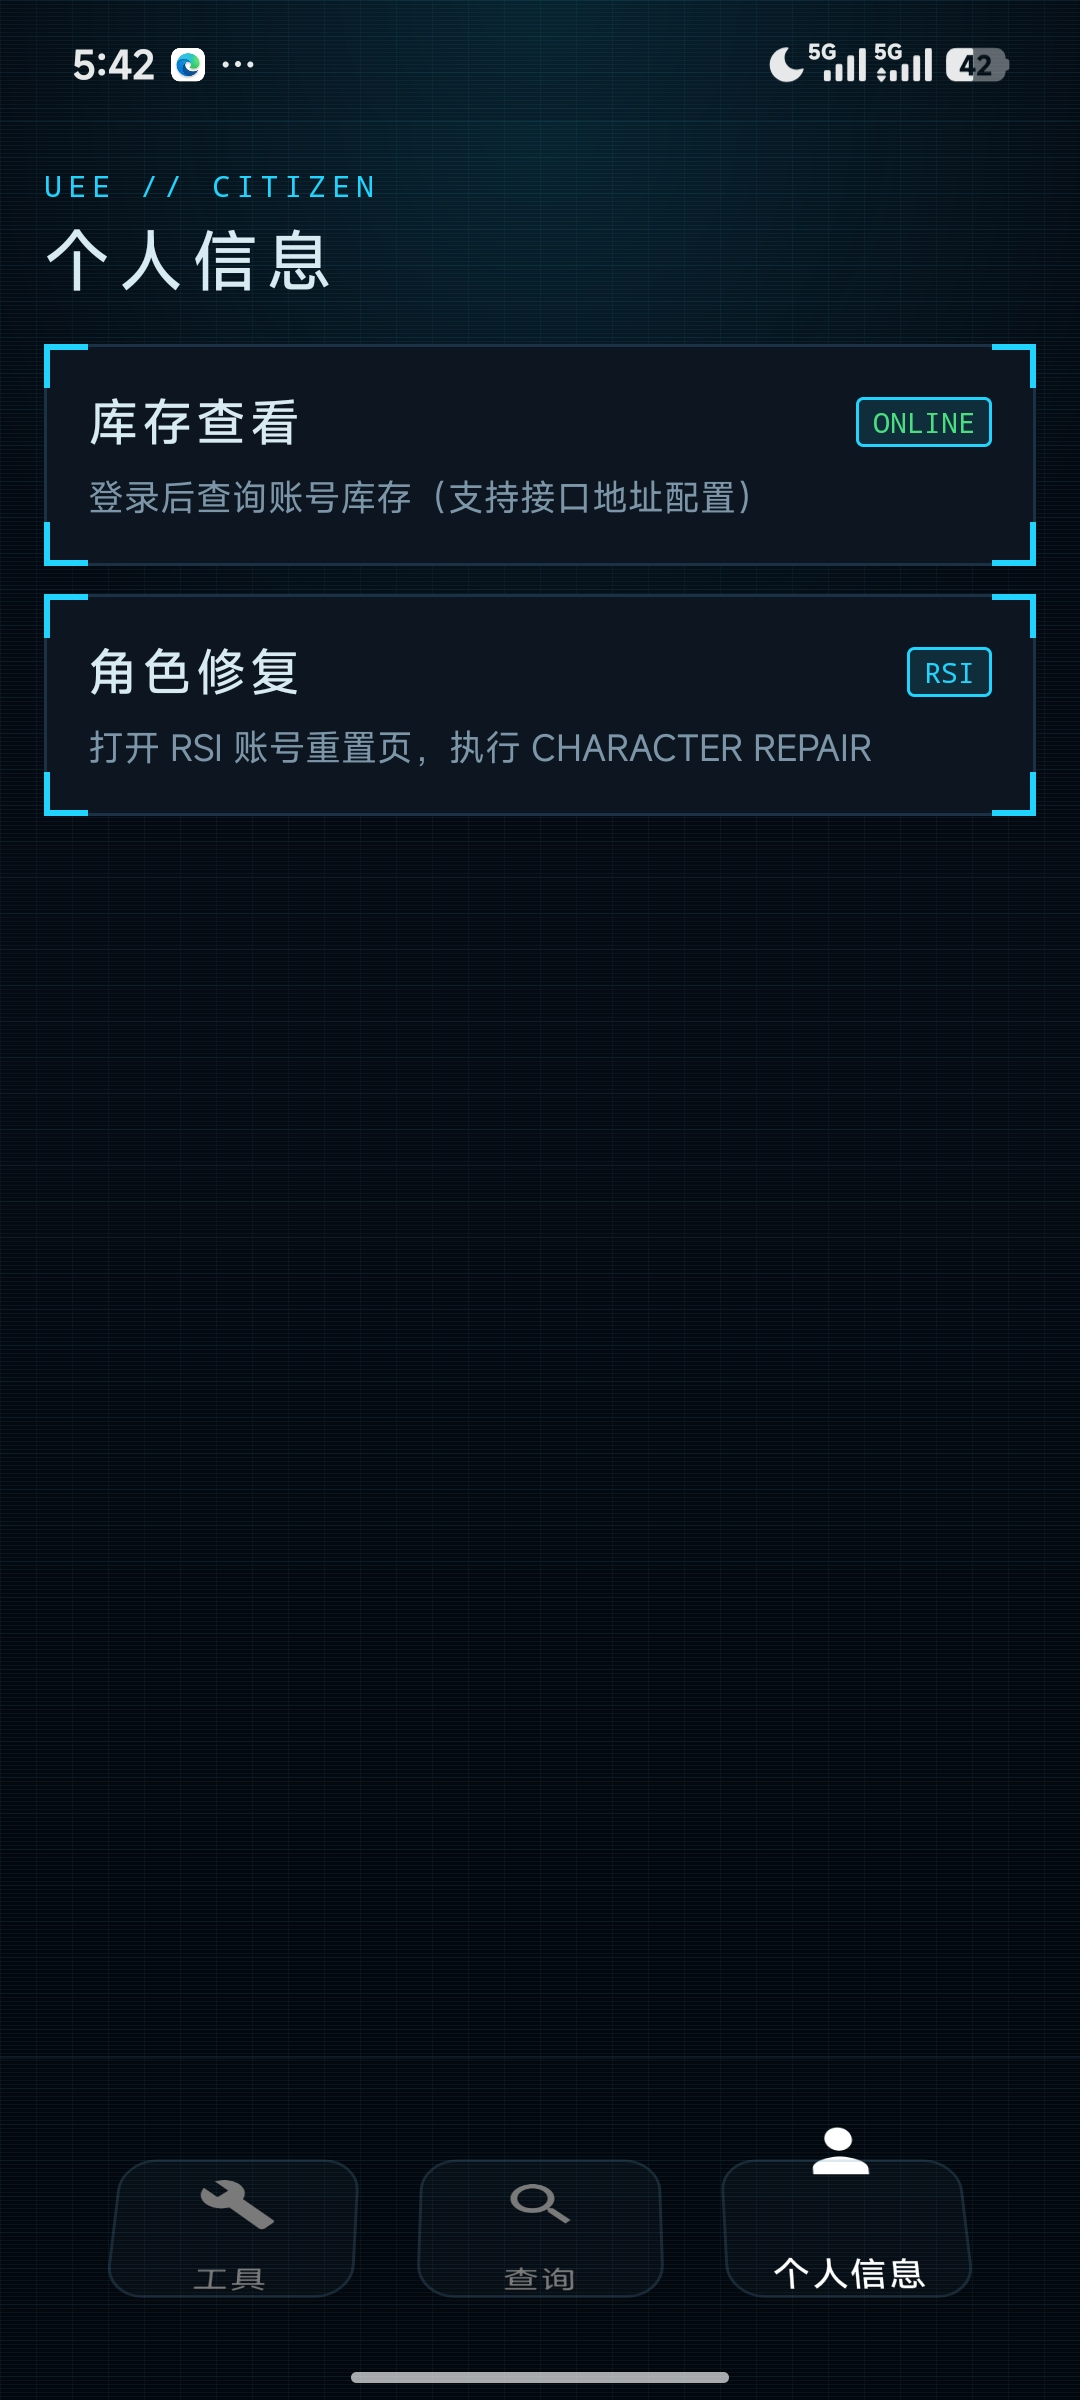
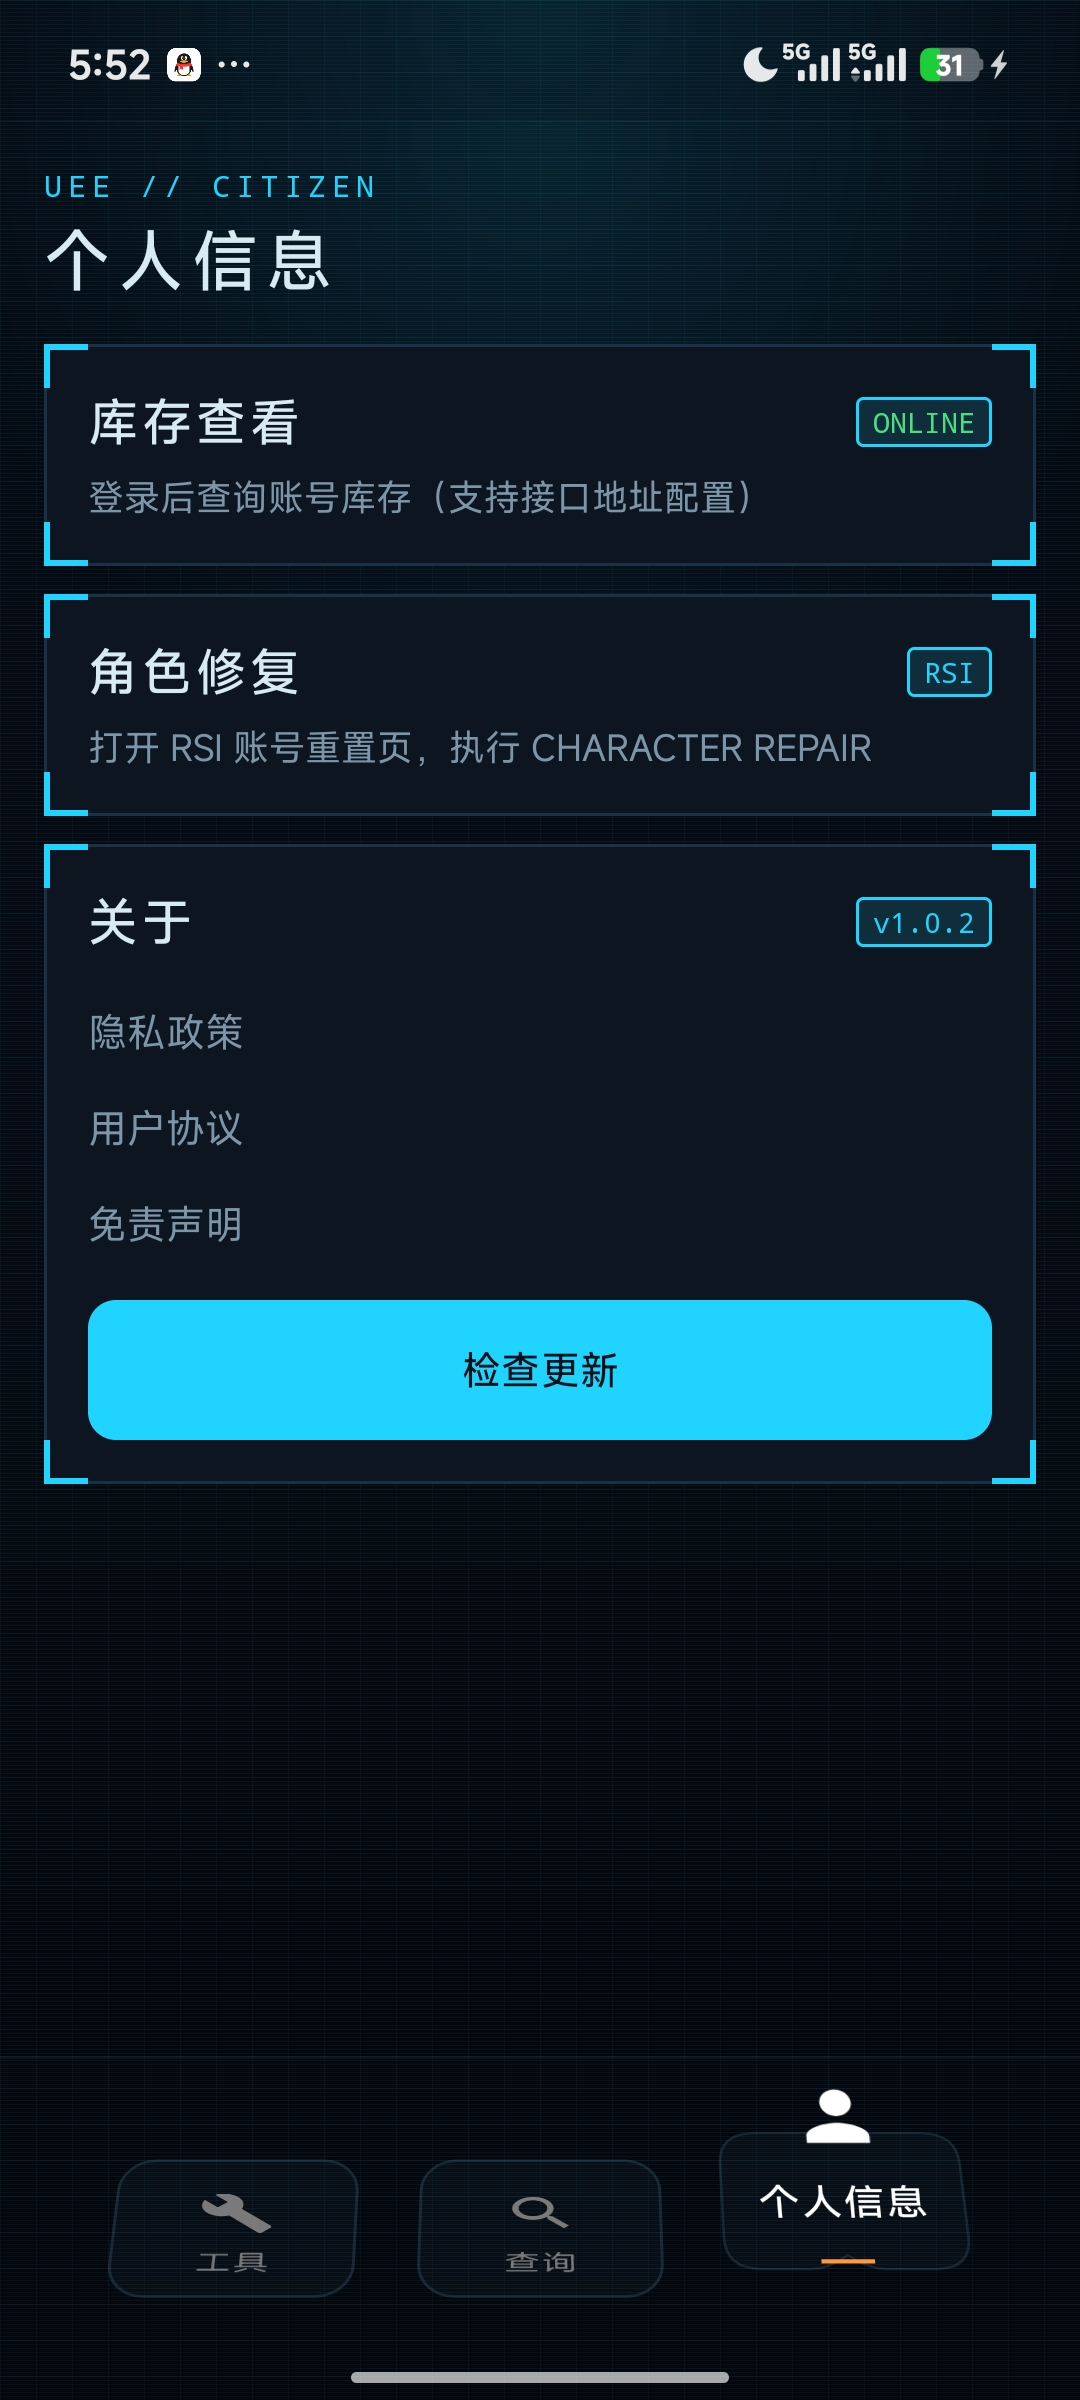
[feat] 更新源改Gitee优先并新增SCM网站工具栏入口

diff --git a/app/src/main/java/com/euedrc/bugsc/ToolsFragment.kt b/app/src/main/java/com/euedrc/bugsc/ToolsFragment.kt
@@ -1,5 +1,7 @@
 package com.euedrc.bugsc
 
+import android.content.Intent
+import android.net.Uri
 import android.os.Bundle
 import android.view.LayoutInflater
 import android.view.View
@@ -33,12 +35,21 @@ class ToolsFragment : Fragment() {
             findNavController().navigate(R.id.WbFragment)
         }
         binding.cardComing.setOnClickListener {
-            Toast.makeText(requireContext(), "陆续开发中", Toast.LENGTH_SHORT).show()
+            runCatching {
+                startActivity(Intent(Intent.ACTION_VIEW, Uri.parse(SCM_TOOLS_URL)))
+            }.onFailure {
+                Toast.makeText(requireContext(), "无法打开浏览器", Toast.LENGTH_SHORT).show()
+            }
         }
     }
 
     override fun onDestroyView() {
         super.onDestroyView()
         _binding = null
+    }
+
+    companion object {
+        /** SCM 网站工具栏（合作方维护） */
+        private const val SCM_TOOLS_URL = "https://flowcld.xyz/tools"
     }
 }

diff --git a/app/src/main/java/com/euedrc/bugsc/AppUpdateClient.kt b/app/src/main/java/com/euedrc/bugsc/AppUpdateClient.kt
@@ -47,10 +47,10 @@ class AppUpdateClient(
         private const val GITEE_LATEST_RELEASE_API_URL =
             "https://gitee.com/api/v5/repos/$GITEE_REPO/releases/latest"
 
-        // GitHub 为主源，国内访问 api.github.com 失败时回退 Gitee
+        // Gitee 为主源（国内访问与下载更快），失败时回退 GitHub
         val DEFAULT_SOURCES = listOf(
-            UpdateSource("GitHub", GITHUB_LATEST_RELEASE_API_URL, Companion::parseRelease),
             UpdateSource("Gitee", GITEE_LATEST_RELEASE_API_URL, Companion::parseGiteeRelease),
+            UpdateSource("GitHub", GITHUB_LATEST_RELEASE_API_URL, Companion::parseRelease),
         )
 
         private fun httpGet(url: String): String {